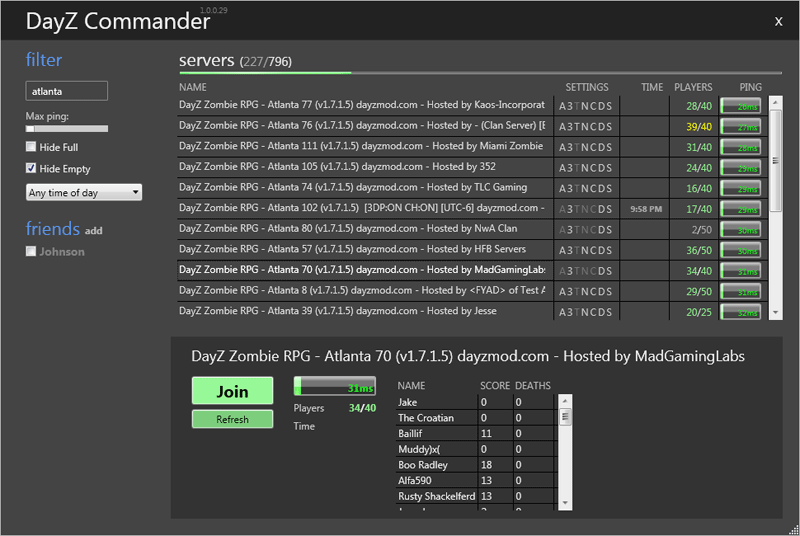
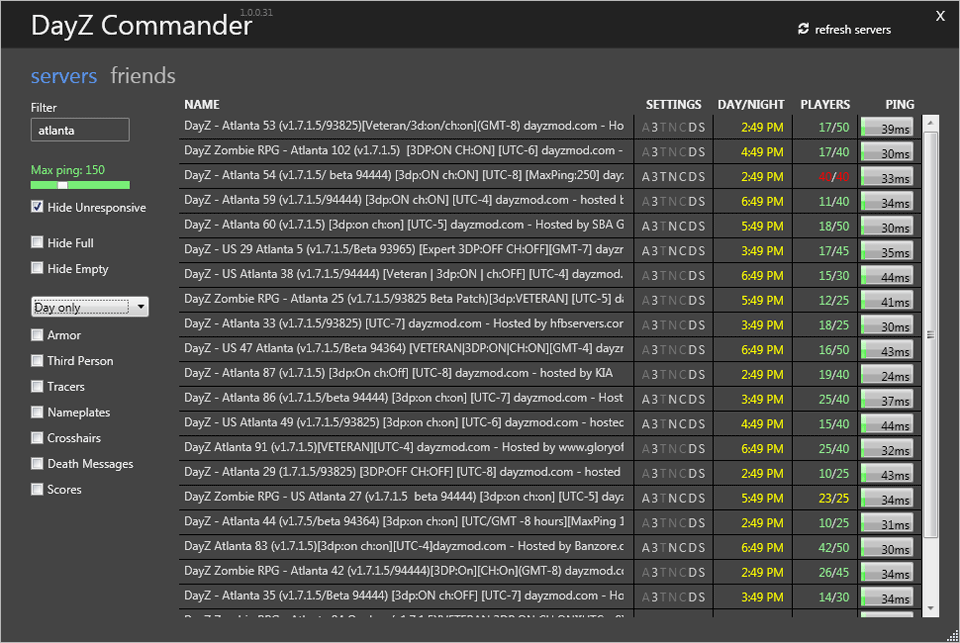
Some post refactoring tweaks

diff --git a/Dotjosh.DayZCommander/Ui/MainWindow.xaml b/Dotjosh.DayZCommander/Ui/MainWindow.xaml
@@ -60,11 +60,17 @@
 						   Margin="30 -6 0 7"/>
 				</StackPanel>
 				<StackPanel Grid.Column="1"
-							Margin="0 0 45 0"
+							Margin="0 0 45 8"
 							VerticalAlignment="Bottom">
+					<StackPanel Orientation="Horizontal"
+								Visibility="{Binding ServerList.UnprocessedServersCount, Converter={StaticResource CountToVisibilityConverter}}">
+						<TextBlock Text="(" Foreground="#CCC"/>
+						<TextBlock Text="{Binding ServerList.ProcessedServersCount}" Foreground="#CCC"/>
+						<TextBlock Text="/" Foreground="#CCC"/>
+						<TextBlock Text="{Binding ServerList.Items.Count}" Foreground="#FFF"/>
+						<TextBlock Text=")" Foreground="#CCC"/>
+					</StackPanel>
 					<Button Template="{StaticResource MetroButton}"
-								Canvas.Right="0"
-								Canvas.Top="13"
 								Click="RefreshAll_Click"
 								HorizontalAlignment="Right"
 								Visibility="{Binding ServerList.UnprocessedServersCount, Converter={StaticResource ZeroToVisibilityConverter}}"

diff --git a/Dotjosh.DayZCommander/Ui/ServerList/ListView.xaml b/Dotjosh.DayZCommander/Ui/ServerList/ListView.xaml
@@ -20,8 +20,8 @@
 					  AutoGenerateColumns="False">
 			<DataGrid.RowStyle>
 				<Style TargetType="{x:Type DataGridRow}">
-					<!--					<EventSetter Event="MouseDoubleClick" Handler="RowDoubleClick"/>-->
-					<!--					<EventSetter Event="PreviewMouseLeftButtonDown" Handler="RowLeftButtonDown"/>-->
+					<EventSetter Event="MouseDoubleClick" Handler="RowDoubleClick"/>
+					<EventSetter Event="PreviewMouseLeftButtonDown" Handler="RowLeftButtonDown"/>
 				</Style>
 			</DataGrid.RowStyle>
 			<DataGrid.Resources>

diff --git a/Dotjosh.DayZCommander/Ui/ServerList/ListViewModel.cs b/Dotjosh.DayZCommander/Ui/ServerList/ListViewModel.cs
@@ -1,9 +1,12 @@
 using System;
 using System.Collections.ObjectModel;
+using System.Diagnostics;
+using System.IO;
 using System.Threading;
 using System.Windows.Data;
 using Caliburn.Micro;
 using Dotjosh.DayZCommander.Core;
+using Microsoft.Win32;
 
 namespace Dotjosh.DayZCommander.Ui.ServerList
 {
@@ -82,6 +85,37 @@ namespace Dotjosh.DayZCommander.Ui.ServerList
 
 		public void Handle(ServersAdded message)
 		{
+		}
+
+
+		public void JoinServer(Server server)
+		{
+			var arma2Path = (string)Registry.GetValue(@"HKEY_LOCAL_MACHINE\SOFTWARE\Bohemia Interactive Studio\ArmA 2", "main", "");
+			var arma2OAPath = (string)Registry.GetValue(@"HKEY_LOCAL_MACHINE\SOFTWARE\Bohemia Interactive Studio\ArmA 2 OA", "main", "");
+			var arma2OaBetaExePath = Path.Combine(arma2OAPath, @"Expansion\beta\arma2oa.exe");
+
+			if(string.IsNullOrWhiteSpace(arma2Path))
+			{
+				arma2Path = Path.Combine(new DirectoryInfo(arma2OAPath).Parent.FullName, "ArmA 2");
+			}
+
+			var arguments = @"";
+			arguments += " -noSplash -noFilePatching";
+			arguments += " -connect=" + server.IpAddress;
+			arguments += " -port=" + server.Port;
+			arguments += string.Format(" \"-mod={0};expansion;expansion\\beta;expansion\\beta\\expansion;@DayZ\"", arma2Path);
+			var p = new Process
+			{
+				StartInfo =
+					{
+						FileName = arma2OaBetaExePath,
+						Arguments = arguments,
+						Verb = "runas",
+						WorkingDirectory = arma2OAPath,
+						UseShellExecute = true,
+					}
+			};
+			p.Start();			
 		}
 	}
 }

diff --git a/Dotjosh.DayZCommander/Ui/MainWindowViewModel.cs b/Dotjosh.DayZCommander/Ui/MainWindowViewModel.cs
@@ -119,35 +119,5 @@ namespace Dotjosh.DayZCommander.Ui
 				App.Events.Publish(new PlayersChangedEvent(server.Players, server.Players));
 			}
 		}
-
-		public void JoinServer(Server server)
-		{
-			var arma2Path = (string)Registry.GetValue(@"HKEY_LOCAL_MACHINE\SOFTWARE\Bohemia Interactive Studio\ArmA 2", "main", "");
-			var arma2OAPath = (string)Registry.GetValue(@"HKEY_LOCAL_MACHINE\SOFTWARE\Bohemia Interactive Studio\ArmA 2 OA", "main", "");
-			var arma2OaBetaExePath = Path.Combine(arma2OAPath, @"Expansion\beta\arma2oa.exe");
-
-			if(string.IsNullOrWhiteSpace(arma2Path))
-			{
-				arma2Path = Path.Combine(new DirectoryInfo(arma2OAPath).Parent.FullName, "ArmA 2");
-			}
-
-			var arguments = @"";
-			arguments += " -noSplash -noFilePatching";
-			arguments += " -connect=" + server.IpAddress;
-			arguments += " -port=" + server.Port;
-			arguments += string.Format(" \"-mod={0};expansion;expansion\\beta;expansion\\beta\\expansion;@DayZ\"", arma2Path);
-			var p = new Process
-			{
-				StartInfo =
-					{
-						FileName = arma2OaBetaExePath,
-						Arguments = arguments,
-						Verb = "runas",
-						WorkingDirectory = arma2OAPath,
-						UseShellExecute = true,
-					}
-			};
-			p.Start();			
-		}
 	}
 }

diff --git a/Dotjosh.DayZCommander/Core/ServerList.cs b/Dotjosh.DayZCommander/Core/ServerList.cs
@@ -89,10 +89,20 @@ namespace Dotjosh.DayZCommander.Core
 
 		public void UpdateAllSync()
 		{
+			int[] threadCount = {0};
 			for (int index = 0; index < Items.Count; index++)
 			{
 				var server = Items[index];
 
+//				while(threadCount[0] > 75)
+//				{
+//					Thread.Sleep(500);
+//				}
+
+				if(index % 70 == 0)
+					Thread.Sleep(200);
+
+				threadCount[0]++;
 				new Thread(() =>
 				           	{
 				           		server.Update();
@@ -101,10 +111,8 @@ namespace Dotjosh.DayZCommander.Core
 				           		                   		ProcessedServersCount++;
 														App.Events.Publish(new ServerUpdated(server));
 				           		                   	});
+				           		threadCount[0]--;
 				           	}).Start();
-
-				if (index%70 == 0)
-					Thread.Sleep(300);
 			}
 		}
 

diff --git a/Dotjosh.DayZCommander/Ui/ServerList/ListView.xaml.cs b/Dotjosh.DayZCommander/Ui/ServerList/ListView.xaml.cs
@@ -11,6 +11,7 @@ using System.Windows.Media;
 using System.Windows.Media.Imaging;
 using System.Windows.Navigation;
 using System.Windows.Shapes;
+using Dotjosh.DayZCommander.Core;
 
 namespace Dotjosh.DayZCommander.Ui.ServerList
 {
@@ -22,6 +23,23 @@ namespace Dotjosh.DayZCommander.Ui.ServerList
 		public ListView()
 		{
 			InitializeComponent();
+		}
+
+		public ListViewModel ViewModel
+		{
+			get { return (ListViewModel) DataContext; }
+		}
+
+		private void RowDoubleClick(object sender, MouseButtonEventArgs e)
+		{
+			var server = (Server) ((Control) sender).DataContext;
+
+			ViewModel.JoinServer(server);
+		}
+
+		private void RowLeftButtonDown(object sender, MouseButtonEventArgs e)
+		{
+			ViewModel.LeftMouseDown();
 		}
 	}
 }

diff --git a/Dotjosh.DayZCommander/Core/ServerQueryClient.cs b/Dotjosh.DayZCommander/Core/ServerQueryClient.cs
@@ -27,8 +27,8 @@ namespace Dotjosh.DayZCommander.Core
 			var ipEndPoint = new IPEndPoint(IPAddress.Any, 0);
 			using(var client = new UdpClient(ipEndPoint))
 			{
-				client.Client.ReceiveTimeout = 1000 * 10;
-				client.Client.SendTimeout = 1000 * 10;
+				client.Client.ReceiveTimeout = 1000 * 3;
+				client.Client.SendTimeout = 1000 * 3;
 
 				s.Start();
 				client.Connect(_ipAddress, _port);

diff --git a/Dotjosh.DayZCommander/Ui/MainWindow.xaml.cs b/Dotjosh.DayZCommander/Ui/MainWindow.xaml.cs
@@ -66,12 +66,7 @@ namespace Dotjosh.DayZCommander.Ui
 			ViewModel.ServerList.UpdateAll();
 		}
 
-		private void RowDoubleClick(object sender, MouseButtonEventArgs e)
-		{
-			var server = (Server) ((Control) sender).DataContext;
 
-			ViewModel.JoinServer(server);
-		}
 
 		private void TabHeader_Click(object sender, RoutedEventArgs e)
 		{

diff --git a/Dotjosh.DayZCommander/Ui/Converters/CountToVisibilityConverter.cs b/Dotjosh.DayZCommander/Ui/Converters/CountToVisibilityConverter.cs
@@ -9,7 +9,7 @@ namespace Dotjosh.DayZCommander.Ui.Converters
 	{
 		public object Convert(object value, Type targetType, object parameter, CultureInfo culture)
 		{
-			if(value != null && (long)value > 0)
+			if(value != null && int.Parse(System.Convert.ToString(value)) > 0)
 				return Visibility.Visible;
 
 			return Visibility.Collapsed;
